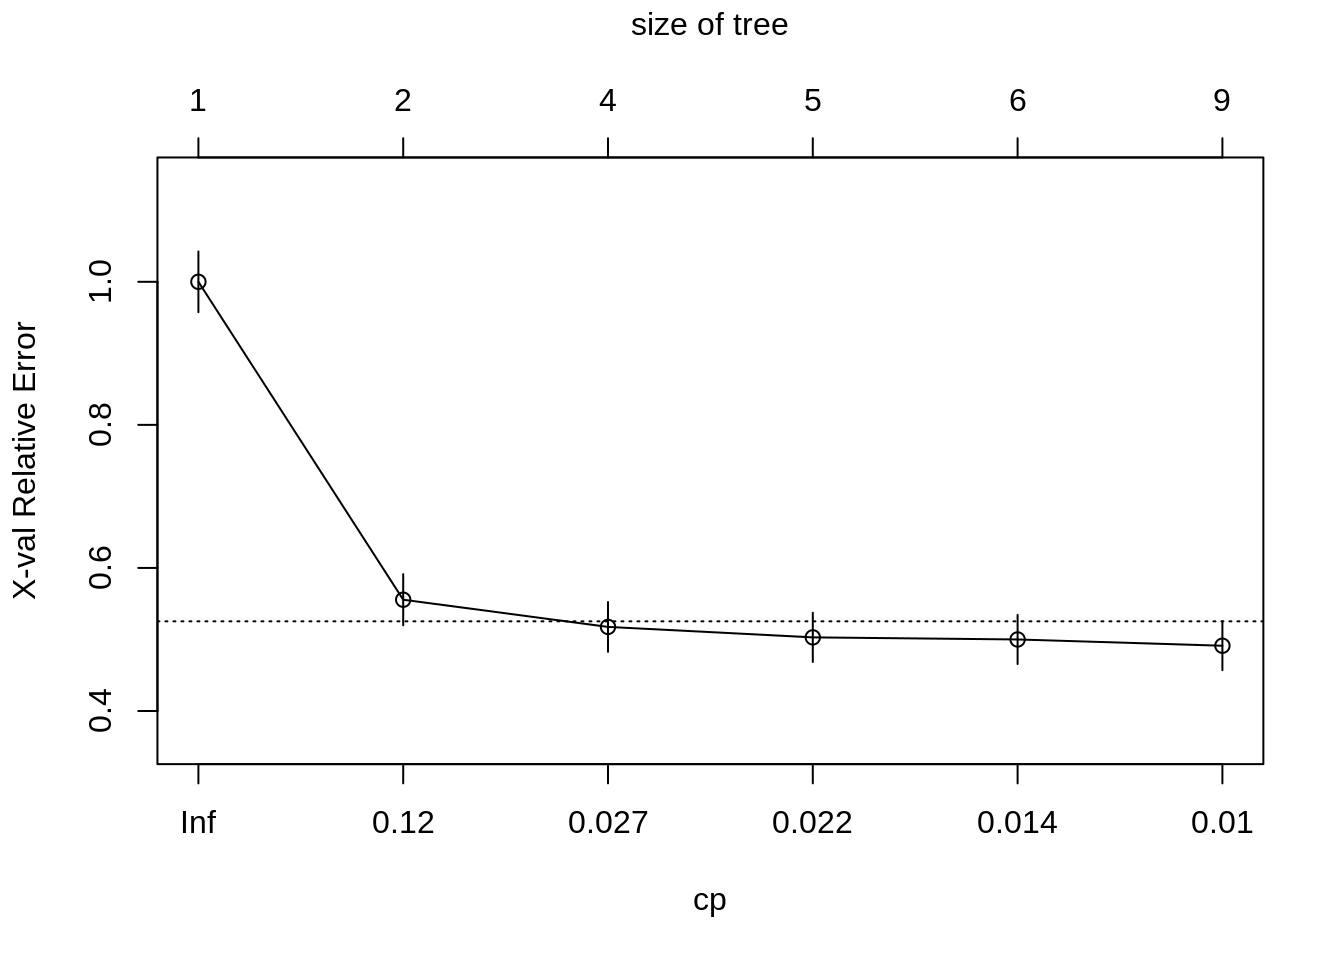
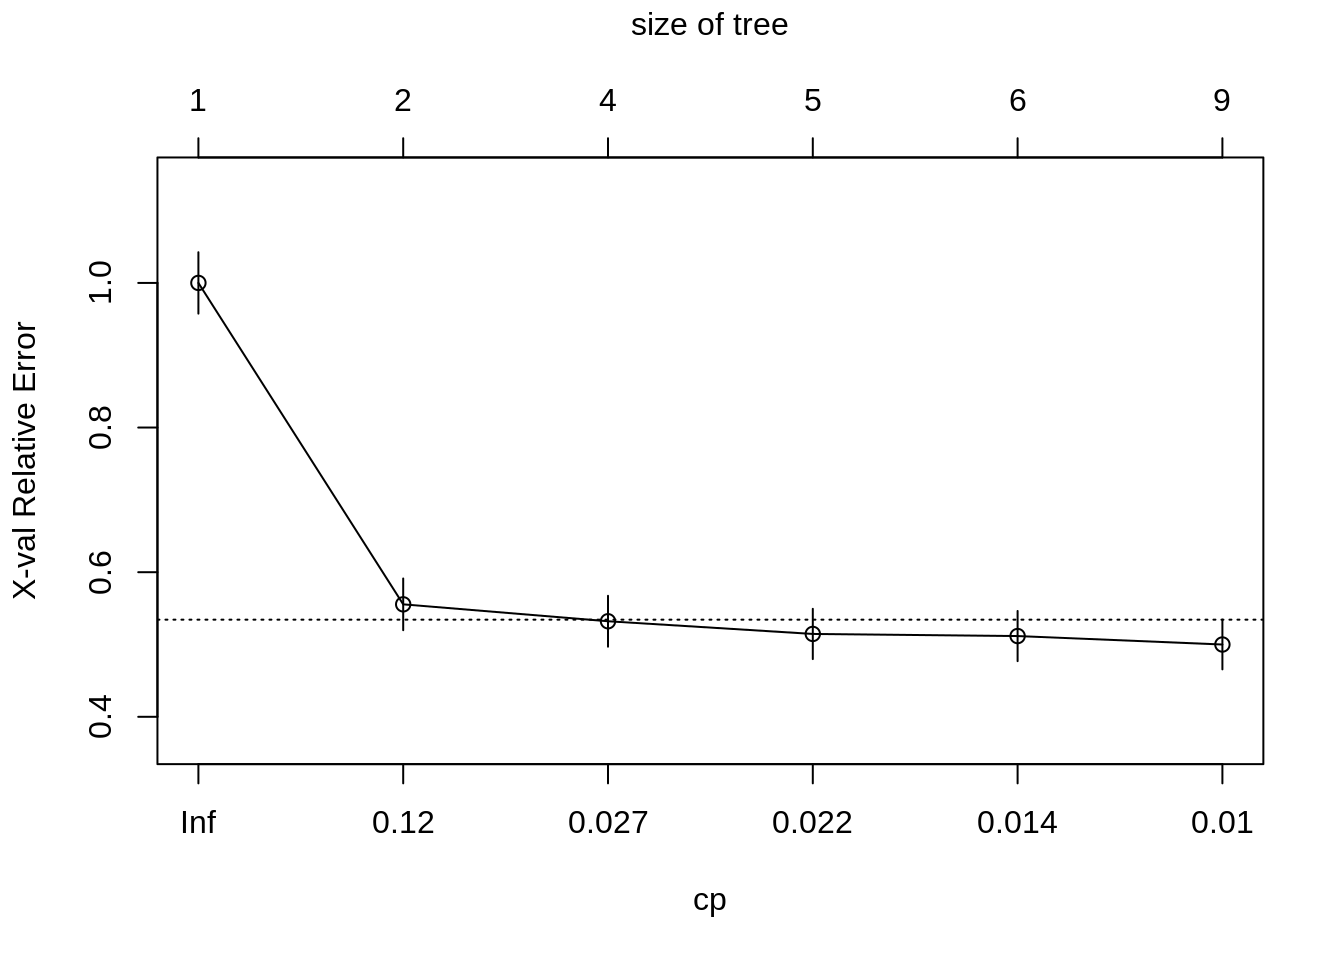
Deploy lebebr01/stat_thinking to github.com/lebebr01/stat_thinking.git:master

diff --git a/docs/classification.html b/docs/classification.html
@@ -324,10 +324,10 @@ titanic &lt;-<span class="st"> </span><span class="kw">bind_rows</span>(titanic_
 ##         CP nsplit rel error  xerror     xstd
 ## 1 0.444444      0   1.00000 1.00000 0.042446
 ## 2 0.030702      1   0.55556 0.55556 0.035750
-## 3 0.023392      3   0.49415 0.51754 0.034823
-## 4 0.020468      4   0.47076 0.50292 0.034448
-## 5 0.010234      5   0.45029 0.50000 0.034372
-## 6 0.010000      8   0.41813 0.49123 0.034140</code></pre>
+## 3 0.023392      3   0.49415 0.53216 0.035188
+## 4 0.020468      4   0.47076 0.51462 0.034749
+## 5 0.010234      5   0.45029 0.51170 0.034675
+## 6 0.010000      8   0.41813 0.50000 0.034372</code></pre>
 <div class="sourceCode"><pre class="sourceCode r"><code class="sourceCode r"><span class="kw">plotcp</span>(class_tree)</code></pre></div>
 <p><img src="05-classification_files/figure-html/unnamed-chunk-6-1.png" width="672" /></p>
 <div class="sourceCode"><pre class="sourceCode r"><code class="sourceCode r">prune_class_tree &lt;-<span class="st"> </span><span class="kw">prune</span>(class_tree, <span class="dt">cp =</span> .<span class="dv">02</span>)

diff --git a/docs/05-classification.md b/docs/05-classification.md
@@ -249,10 +249,10 @@ printcp(class_tree)
 ##         CP nsplit rel error  xerror     xstd
 ## 1 0.444444      0   1.00000 1.00000 0.042446
 ## 2 0.030702      1   0.55556 0.55556 0.035750
-## 3 0.023392      3   0.49415 0.51754 0.034823
-## 4 0.020468      4   0.47076 0.50292 0.034448
-## 5 0.010234      5   0.45029 0.50000 0.034372
-## 6 0.010000      8   0.41813 0.49123 0.034140
+## 3 0.023392      3   0.49415 0.53216 0.035188
+## 4 0.020468      4   0.47076 0.51462 0.034749
+## 5 0.010234      5   0.45029 0.51170 0.034675
+## 6 0.010000      8   0.41813 0.50000 0.034372
 ```
 
 ```r
